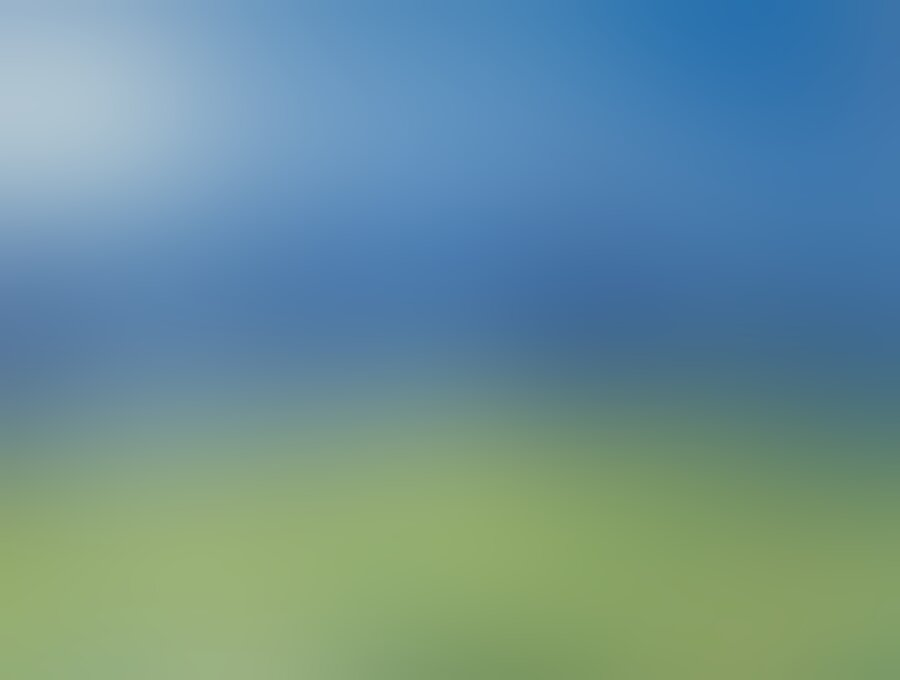
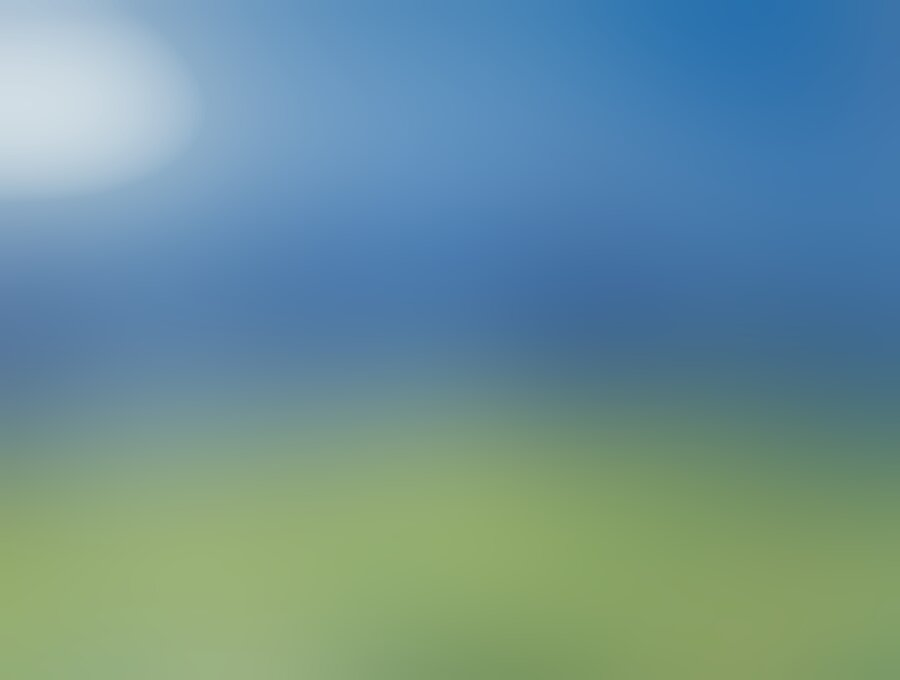
Clouds lifted to white in the wallpaper (bright, low-saturation pixels only); section boxes keep a shadow

Changed region(s): [[0.0, 0.0309, 0.1556, 0.2779]]

diff --git a/src/pages/settings-page.styles.ts b/src/pages/settings-page.styles.ts
@@ -455,7 +455,8 @@ export const settingsPageStyles = css`
     padding: 0.75rem 0.625rem;
     border-radius: 16px;
     box-sizing: border-box;
-    box-shadow: var(--theme-box-glow);
+    /* a section holds other boxes; with a glow it melts into the page */
+    box-shadow: 0 6px 20px rgba(0, 0, 0, 0.22);
   }
 
   .section-candidate {

diff --git a/scripts/theme-from-painting.py b/scripts/theme-from-painting.py
@@ -172,10 +172,22 @@ def main():
     base = [a.painting, "-auto-orient", "-strip", *crop, "-resize", "1600x1600>"]
     # Blur on a 5% thumbnail and scale back up: same result as a huge
     # Gaussian on the full image, in a fraction of the time.
-    # No colour tuning here: lifting or desaturating a blurred painting
-    # turns a sky grey. If the mood is wrong, pick another painting.
-    magick(*base, "-resize", "5%", "-blur", f"0x{a.blur / 20:.2f}", "-resize", "2000%",
-           "-quality", "85", str(WALLPAPER))
+    # The only colour tuning: clouds go white. Blurring averages a cloud
+    # with the sky around it into grey; this lifts pixels that are both
+    # bright and low in saturation (clouds, not sky or field) back towards
+    # white. Global lifting or desaturating would turn the sky grey instead.
+    blurred = WALLPAPER.with_name("theme-blurred.png")
+    magick(*base, "-resize", "5%", "-blur", f"0x{a.blur / 20:.2f}", "-resize", "2000%", str(blurred))
+    mask = WALLPAPER.with_name("theme-cloud-mask.png")
+    magick(str(blurred), "-colorspace", "HSB",
+           "(", "-clone", "0", "-channel", "G", "-separate", "+channel", "-negate", ")",
+           "(", "-clone", "0", "-channel", "B", "-separate", "+channel", ")",
+           "-delete", "0", "-compose", "multiply", "-composite",
+           "-level", "55%,100%", "-gamma", "1.3", str(mask))
+    magick(str(blurred), "(", "+clone", "-fill", "white", "-colorize", "100", ")", str(mask),
+           "-compose", "over", "-composite", "-quality", "85", str(WALLPAPER))
+    blurred.unlink()
+    mask.unlink()
     tmp = WALLPAPER.with_name("theme-source.png")
     magick(*base, str(tmp))
     cl = clusters(str(tmp))
